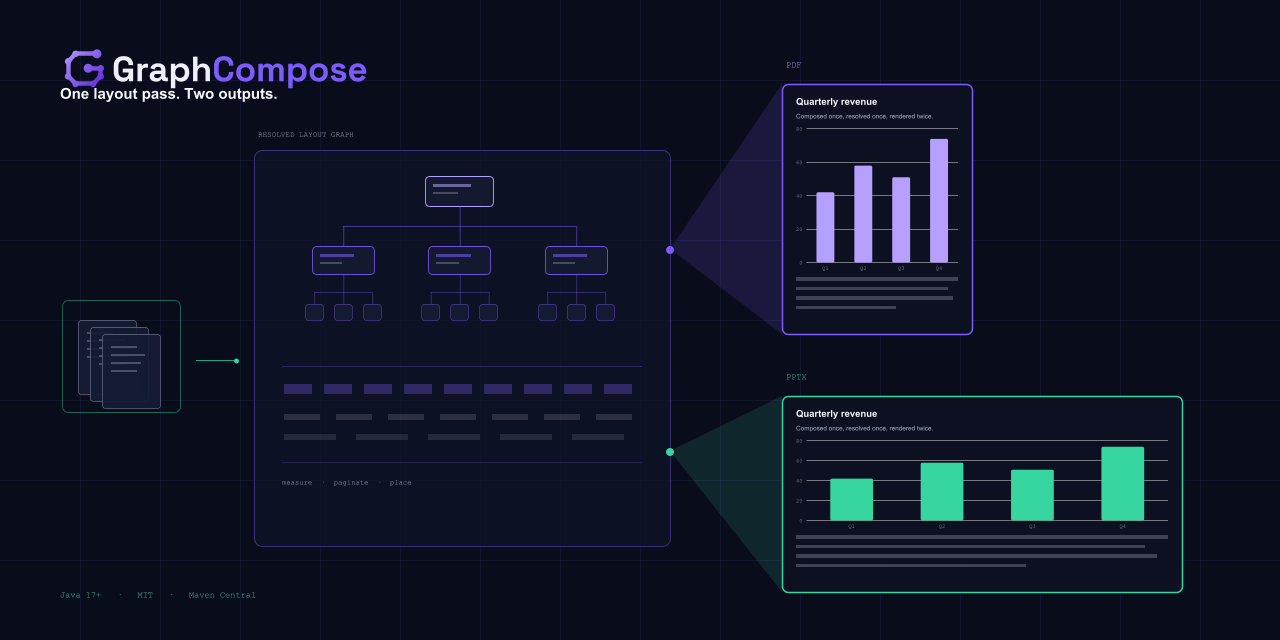
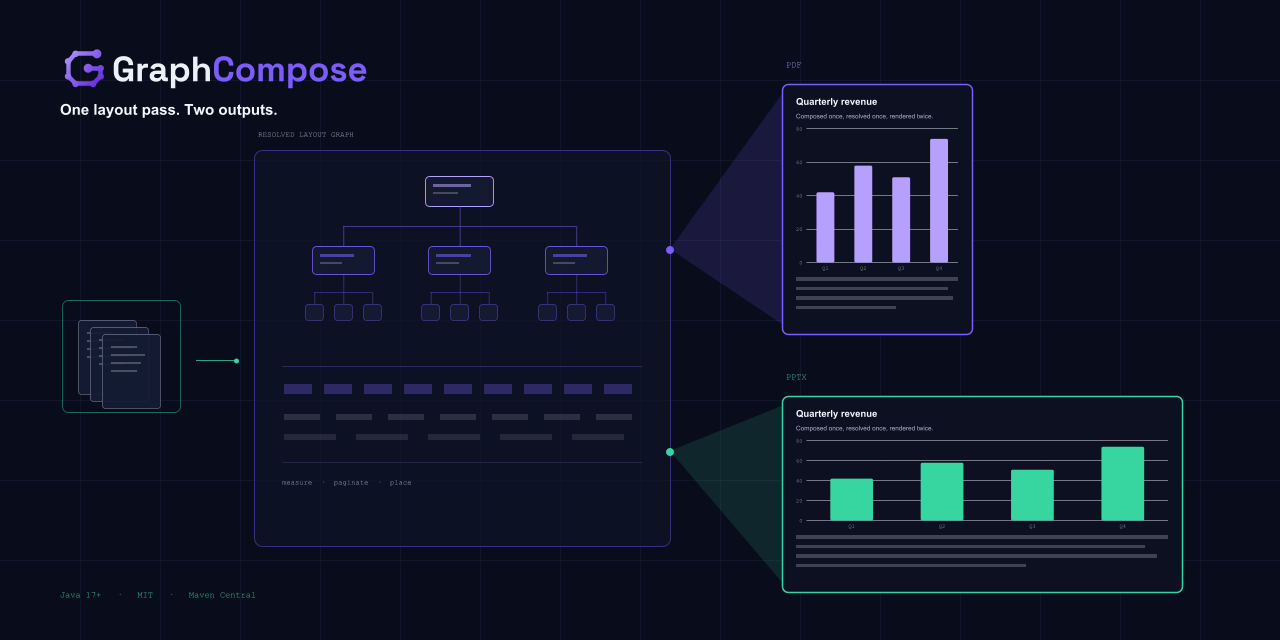
fix(examples): tuck the beams behind the card borders, air under the wordmark
Each wedge ran to the full height of the card it points at, so its point
landed exactly on the rounded corner and stuck out past the curve as a
sharp spike. Both now stop short of the corner radius and meet the
straight part of the border.

The tagline sat directly against the wordmark — measured on the render
the two had no gap at all between them. It drops far enough to read as a
second line rather than a descender.

diff --git a/examples/src/main/java/com/demcha/examples/flagships/SocialCardExample.java b/examples/src/main/java/com/demcha/examples/flagships/SocialCardExample.java
@@ -190,7 +190,7 @@ public final class SocialCardExample {
         // Header. A social card has to say whose it is; the pipeline says why.
         layers.add(at(logoBlock(), 56, 34));
         layers.add(at(text("Tagline", "One layout pass. Two outputs.",
-                display(15, ON_DARK), 300), 60, 88));
+                display(15, ON_DARK), 300), 60, 104));
         layers.add(at(text("Footer", "Java 17+   ·   MIT   ·   Maven Central",
                 mono(8.6, MINT), 300), 60, 592));
 
@@ -396,6 +396,10 @@ public final class SocialCardExample {
      * surface exposes solid colours, and a flat wedge reads cleaner at the size
      * a social card is actually viewed.
      *
+     * <p>Each wedge stops short of its card's full height so the point tucks
+     * behind the straight part of the border. Running it to the corner left a
+     * sharp spike poking out past the rounded edge.</p>
+     *
      * @return the composed wedges and their origin dots
      */
     private static List<CanvasChild> beams() {
@@ -404,8 +408,8 @@ public final class SocialCardExample {
                 .name("BeamPdf")
                 .size(112, 250)
                 .moveTo(0.00, 0.34)
-                .lineTo(1.00, 1.00)
-                .lineTo(1.00, 0.00)
+                .lineTo(1.00, 0.96)
+                .lineTo(1.00, 0.04)
                 .closePath()
                 .fillColor(VIOLET.withOpacity(0.15))
                 .build(), 670, 84));
@@ -413,8 +417,8 @@ public final class SocialCardExample {
                 .name("BeamPptx")
                 .size(112, 196)
                 .moveTo(0.00, 0.72)
-                .lineTo(1.00, 1.00)
-                .lineTo(1.00, 0.00)
+                .lineTo(1.00, 0.95)
+                .lineTo(1.00, 0.05)
                 .closePath()
                 .fillColor(MINT.withOpacity(0.13))
                 .build(), 670, 396));
